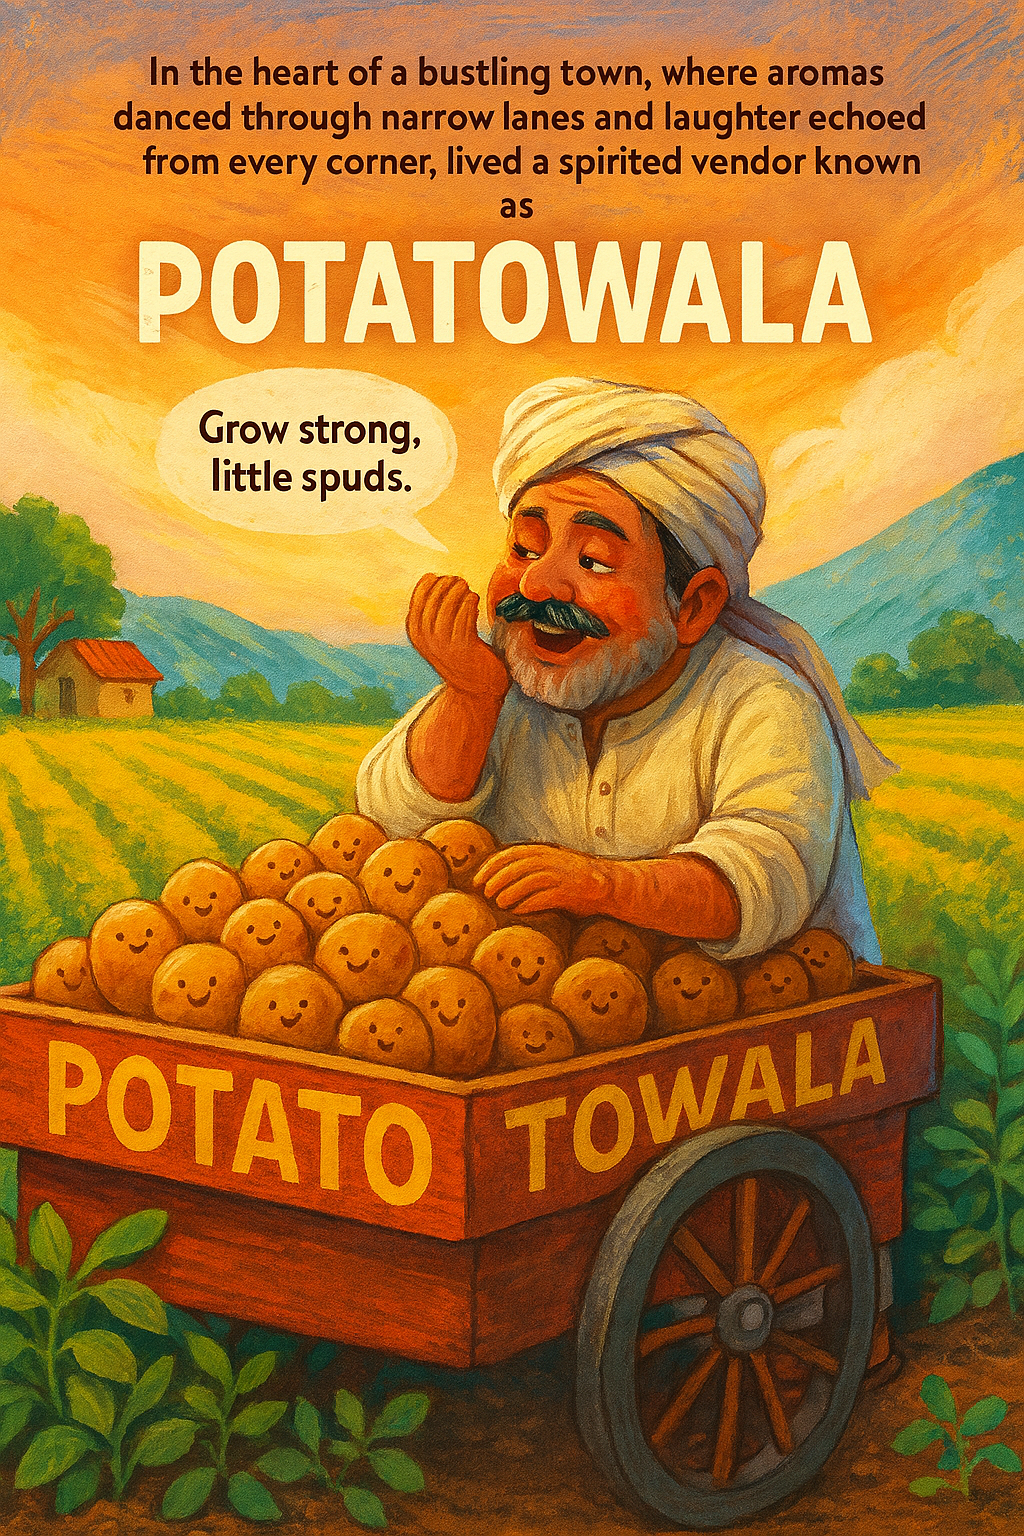
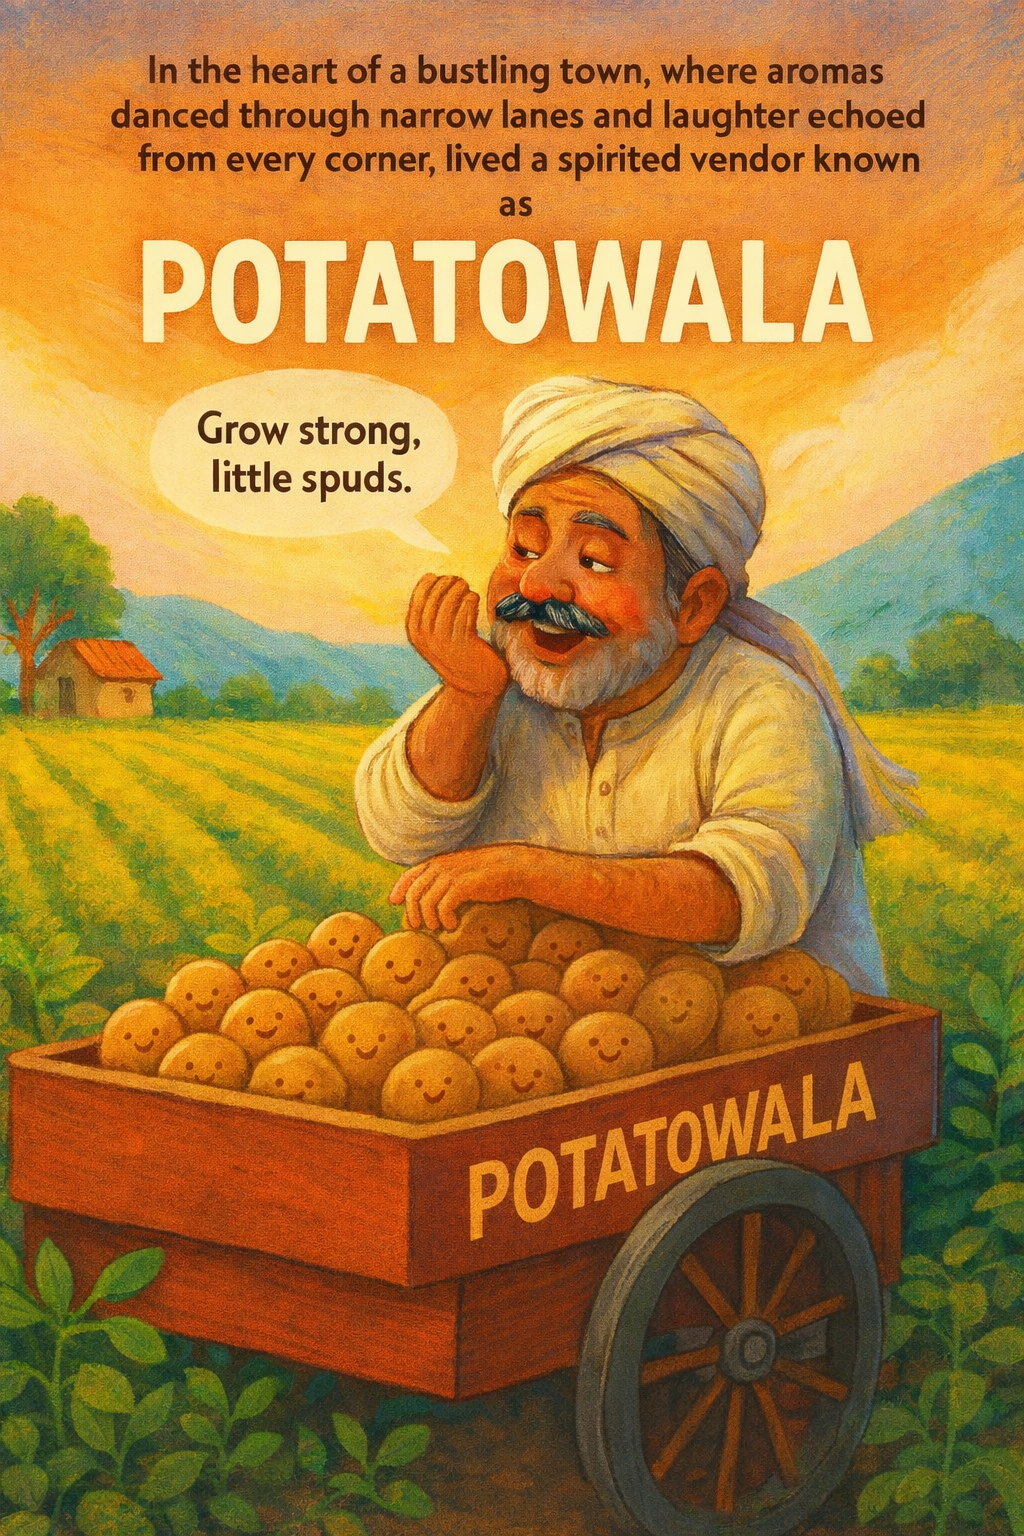
Update AboutSection and Footer; refresh assets: replace about story image, remove story-of-potatowala.jpg; update lockfile

diff --git a/src/components/AboutSection.tsx b/src/components/AboutSection.tsx
@@ -32,10 +32,8 @@ export const AboutSection = () => {
                 plate to thousands of satisfied customers across Chennai and beyond.
               </p>
               <p className="text-muted-foreground text-lg leading-relaxed">
-                Our journey began with a simple mission: to create the crispiest, most delicious loaded fries that
-                bring joy to every bite. We use only the finest ingredients, premium potatoes, and our secret blend of
-                seasonings to deliver an unforgettable culinary experience.
-              </p>
+                Our journey began with a simple mission: to elevate potatoes into irresistibly crispy, delicious creations that bring joy to every bite. We use only the finest ingredients, premium potatoes, and our secret blend of seasonings to deliver an unforgettable culinary experience.
+                </p>
               <p className="text-muted-foreground text-lg leading-relaxed">
                 Today, Potatowala stands for comfort food with a twist – from late‑night cravings to family outings,
                 our outlets are designed to be warm, vibrant spaces where every visit feels like a small celebration.
@@ -86,8 +84,7 @@ export const AboutSection = () => {
                 </p>
                 <p className="text-muted-foreground text-lg leading-relaxed">
                   <strong className="text-foreground">Affordable Excellence:</strong> We believe that great food should
-                  be accessible to everyone. Our prices are competitive without compromising on quality, making premium
-                  loaded fries available to all.
+                  be accessible to everyone. Our prices are competitive without compromising on quality, making premium Fries available to all.
                 </p>
               </div>
             </div>

diff --git a/src/components/Footer.tsx b/src/components/Footer.tsx
@@ -24,7 +24,7 @@ export const Footer = () => {
               style={{ imageRendering: 'crisp-edges' }}
             />
             <p className="text-sm opacity-80 mb-4">
-              From tasty bites to cool sips, all in one plate. Experience the best loaded fries in town.
+              From tasty bites to cool sips, all in one plate. Experience the best fries in town.
             </p>
           </div>
 